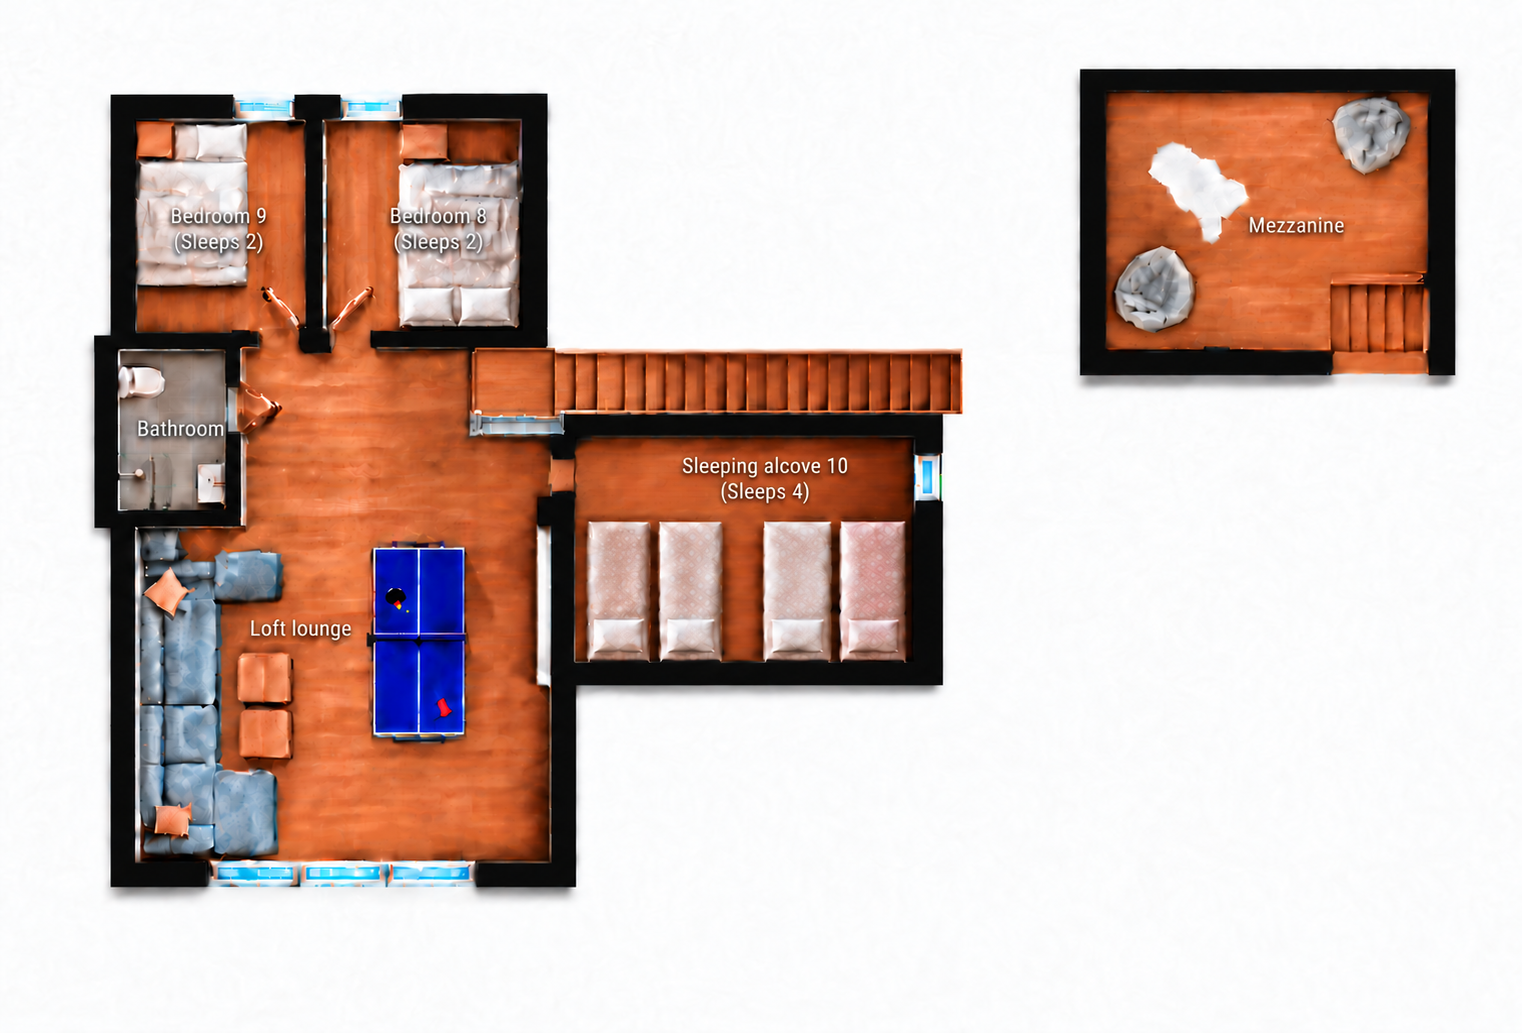
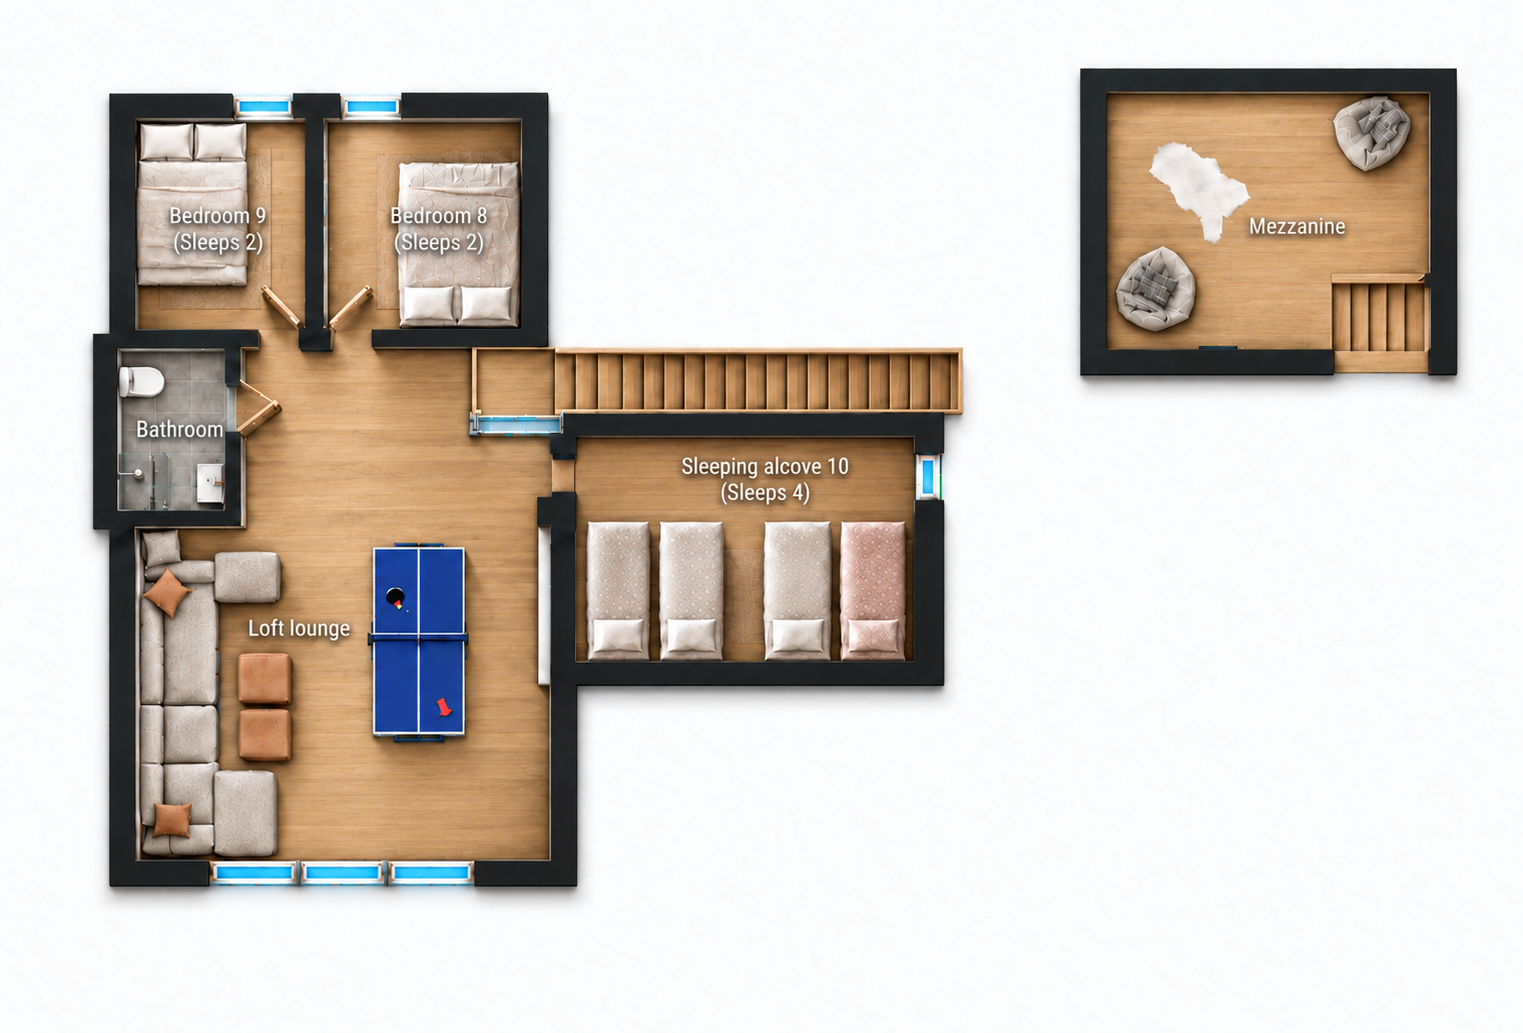
Match lower and loft plans to main floor style

diff --git a/docs/floor-plans.md b/docs/floor-plans.md
@@ -1,5 +1,21 @@
 # Three floor plans
 
+## Final owner refinements, 1 November 2026
+
+On the loft, the upper-left brown cushion in bedroom 9 became two white pillows; the upper brown cushion in bedroom 8 was removed to show oak parquet. The first loft outputs were `exec-27f65d4e-5273-43f0-be50-cc8f5bb8d106.png` (NO) and `exec-69536f0f-fda2-4224-b87c-d4110064f0e4.png` (EN). A second local correction removed the remaining brown cushion from the NO bedroom 8, giving final NO `exec-51fe8fdc-7416-4bf4-8d82-18510875dd58.png`. The final EN is `exec-69536f0f-fda2-4224-b87c-d4110064f0e4.png`.
+
+On the lower floor, the owner marked a small wall stub at the bathroom-to-terrace junction and the thick solid wall along the terrace front for removal. The sauna glass and its door remain. Exterior wall and window-frame visual thickness now matches the main-floor reference, while the furniture and labels remain. Final lower NO/EN outputs are `exec-ef5df4e8-7e20-416d-b8a7-5d2238f39cba.png` and `exec-6be76595-23fc-4bbb-8418-02aed373d9d3.png`. These four final generated images, under `C:/Users/kalaj/.codex/generated_images/01a0dca7-09e8-7432-9c4d-03c13b499591/`, were copied at native size without recompression to the corresponding public assets. The main-floor files were not modified.
+
+Loft reference images: `C:/Users/kalaj/AppData/Local/Temp/codex-clipboard-7d5e589a-e54e-490e-a8e2-f8bd63986781.png` and `codex-clipboard-2d78bee0-0980-46e8-bf04-3e3882a3c576.png`. Lower-floor reference: `codex-clipboard-e8254a91-ad19-4516-9ac5-047b34cc029e.png`. The edits used built-in imagegen edit mode, preserving the prior high-quality floor-plan rendering.
+
+## Match lower and loft rendering to main floor, 1 November 2026
+
+The owner requested that the lower and loft plans match the main floor's color, materials, rendering style and clarity. The main floor assets were visual references only and were not edited. The built-in imagegen edit mode was used separately for Norwegian and English. Final generated PNGs, respectively lower NO/EN and loft NO/EN, are `exec-22739041-5815-4949-a8cf-209ecb308f7f.png`, `exec-afc95730-3b89-4eea-bea5-0ed8cd8e8103.png`, `exec-fbb75eb2-0b09-4e80-9e8f-d0e9cdaaf5f0.png` and `exec-28bb2d59-9e89-4cbd-9e0c-f186ca88f4fe.png`. They were copied without recompression to the four corresponding `public/images/floor-plan-{lower,loft}[-en].png` assets. Source revision: `b104d1139e47581585e425e4b01199e59f89ecb9`. The existing main floor PNGs remain unchanged.
+
+```text
+Use case: style-transfer and faithful image restoration. Image 1 is the EDIT TARGET, existing detailed architectural floor plan. Image 2 MAIN FLOOR is VISUAL STYLE REFERENCE ONLY; do not copy its room layout or furniture. Bring target toward main-floor rendering: softly natural light oak floors (less saturated orange), subtle floor grain, warm beige and cream fabrics, realistic gentle shadows, finely textured muted gray bathroom surfaces, dark charcoal walls, slim cyan-blue glazed windows, clear crisp tile/wood edges. Sharpen small details, white labels and furniture while avoiding halos, excessive contrast or noise. Preserve IMAGE 1 EXACT floor geometry and ALL contents: every room dimension and position, walls, windows, stairs, beds, furniture, fixture count, written labels and their language/text/position, doors, number of chairs, terrace, sauna glass, full canvas and aspect ratio. No redesign, additions, deletion, crop or global resize. Only style/color/detail clarity to match Image 2. Retain local natural lighting and readable white text.
+```
+
 ## Original three-sleeper bunks and loft details, 1 November 2026
 
 Owner corrected the first bunk-bed draft: bedrooms 1 and 2 must keep their original three-sleeper bunk appearance, only slightly wider. The initial draft files exec-817a7711-0ae5-478b-996f-91cb6102e328.png and exec-5c221150-87ef-4ba8-9aeb-257463d8c5d4.png were discarded. Final lower-floor files: exec-8feee42e-1576-44e6-af11-a51a1434e0eb.png (NO) and exec-4390bd3c-27c6-4ff9-9867-50ae5331f4a6.png (EN), copied to public/images/floor-plan-lower.png and public/images/floor-plan-lower-en.png.
